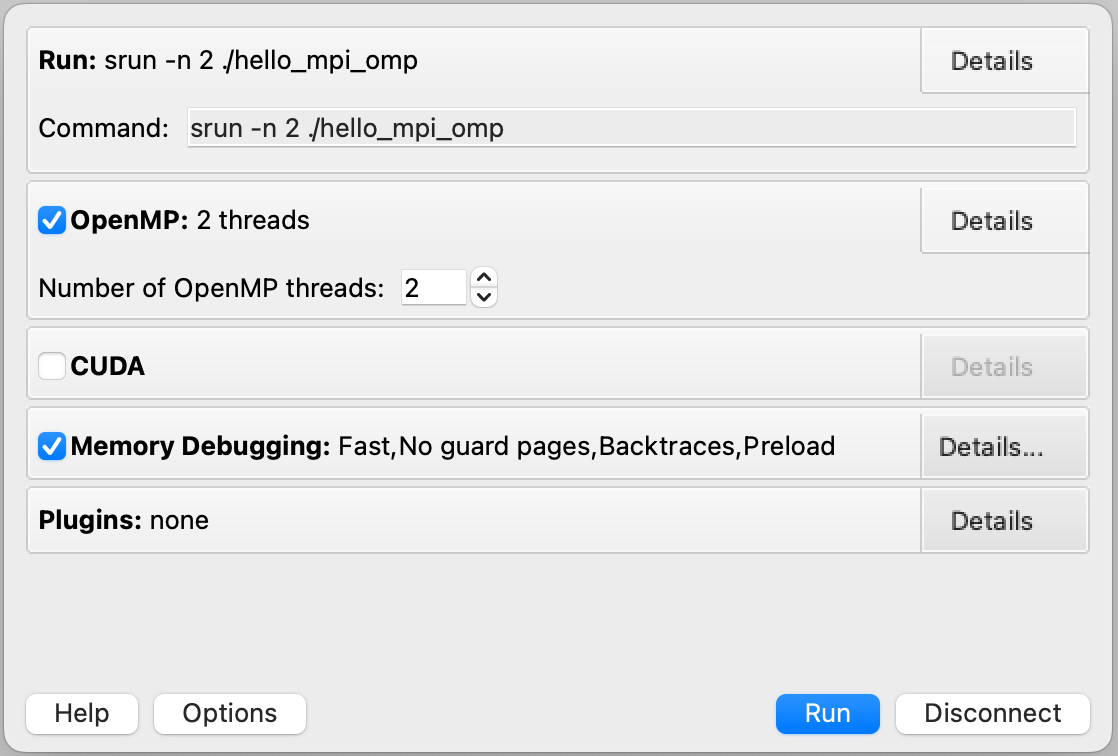
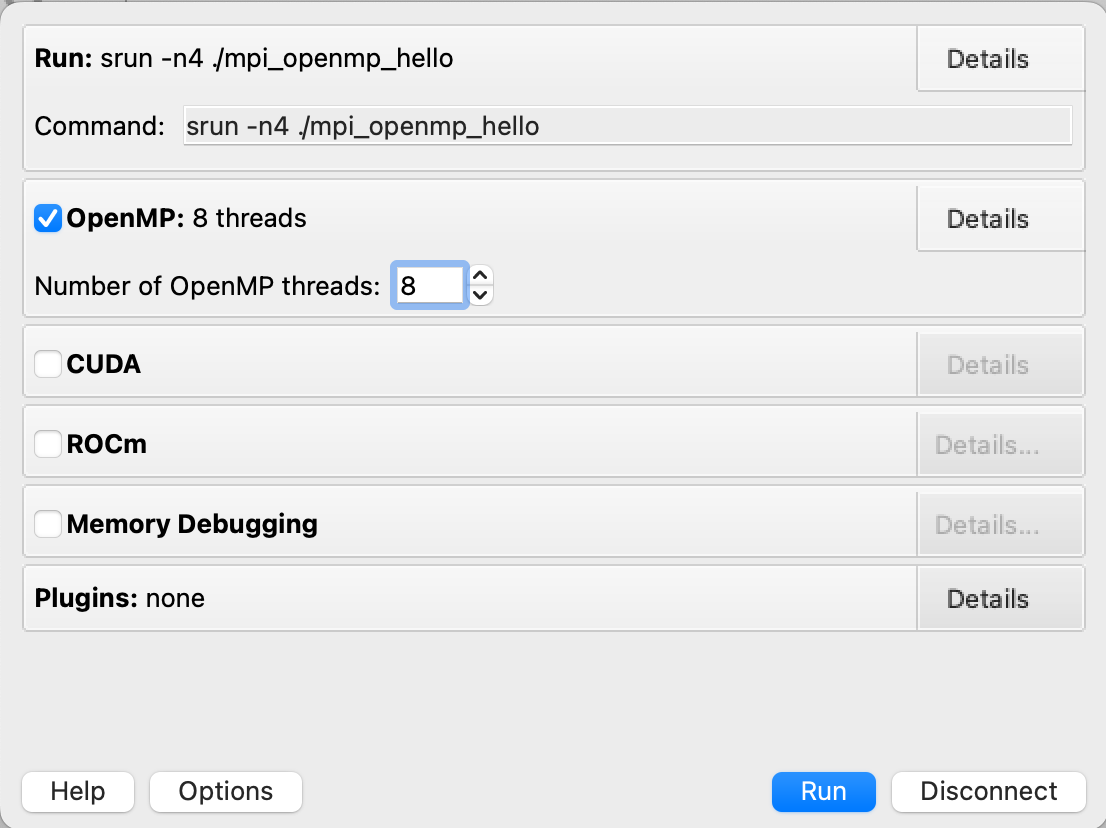
updating instructions for Andes to Forge 23.1

Changed region(s): [[0.0, 0.0, 1.0, 1.0], [0.7993, 0.3955, 0.83, 0.4868], [0.7993, 0.7302, 0.83, 0.7606]]

diff --git a/software/debugging/index.rst b/software/debugging/index.rst
@@ -28,7 +28,7 @@ Download
 
 **Andes**
 
-    You can download the remote client (version 22.0.x) from the `Linaro Forge Older Versions <https://www.linaroforge.com/downloadForge_OldVersion/>`_ page.
+    You can download the remote client (version 23.1) from the `Linaro Forge <https://www.linaroforge.com/downloadForge/>`_ page.
 
 **Frontier**
 
@@ -131,31 +131,51 @@ Configuration
     .. tab-item:: Andes
         
         .. note::
-            Andes currently runs an older version of Forge (22.0.2) which is not compatible with the latest versions of the remote client (22.1.x). If you are using Andes, you will need to download the older version (version 22.0.x) of the remote client from the `Linaro Forge Older Versions <https://www.linaroforge.com/downloadForge_OldVersion/>`_ page as seen in the Download instructions above.
+           Andes has Forge/23.1 installed. So make sure to download the corresponding remote client version from  `Linaro Forge <https://www.linaroforge.com/downloadForge/>`_ page.
 
+
+        **Reverse Connect Setup Instructions**
+        
+        Prior to launching the reverse connect you will need to set a couple of environment variables so the connection request gets routed correctly. The following export vars will need to be sourced in your batch script prior to srun or you can just source them prior to obtaining your node allocation.
+        
+
+        .. code-block:: bash
+
+            export ALLINEA_CONFIG_DIR=<Somewhere on the Filesystem that can be accessed by the compute nodes i.e. /lustre/orion/<project>>
+            export ALLINEA_REVERSE_CONNECT_DIR=<Somewhere on the Filesystem that can be accessed by the compute nodes i.e. /lustre/orion/<project>>
+    
+        Also, if you plan on running the Forge client from your local machine (i.e. laptop), you will need to create a bash file containing the above environment vars. The file can be saved in /ccs/home/<user>. Once created and saved, you will enter the path to the file in the Forge Remote Launch setup window next to Remote Script as shown below.
+
+        **Make sure you set actual paths for the above environment variables.**
+
+        **Local client setup**
+        
         #. Once installed, launch the Forge DDT client on your local machine.
 
         #. You can ignore any information about the lack of license, as the license on the remote machine will be used.
 
-        #. When you reach the welcome screen, you should see a “Remote Launch” combo box (with “Off” selected). Select the “Configure” option.
+        #. When you reach the welcome screen, you should see a “Remote Launch” combo box (with “Off” selected). Click on it and select the “Configure” option.
 
         #. Click the "Add" button.
+        
+        #. In the Forge Remote Launch setup window:
 
-        #. Enter the details of your remote hosts:
+            * In the ``Remote Script`` box, Enter the path to the file you created earlier ``/ccs/home/<user>/forge_connect_vars.sh``. 
 
-            .. figure:: /images/ddt_config_andes.png
-                :align: center
-                :width: 800
+            * (Optionally) In the ``Connection Name`` box, enter a name for your remote connection (otherwise the host name will be used)
 
-            * (Optionally) enter a name for your remote connection (otherwise the host name will be used)
-
-            * Enter your username and hostname (e.g. ``username@andes.olcf.ornl.gov``)
+            * In the ``Host Name`` box, enter your username and hostname (e.g. ``username@andes.olcf.ornl.gov``)
 
                 * If the host you wish to connect to requires connecting through a gateway machine, you can enter ``user@hostname1`` ``user@hostname2`` (where ``hostname1`` is the gateway and ``hostname2`` is the final destination).
 
-            * Enter the remote path to the Linaro Forge installation (To find the path for a version of Forge, load the forge/22.0.2 module file in a terminal and run ``echo $DDT_HOME``)
+            * In the ``Remote Installation Directory`` box, enter the remote path to the Linaro Forge installation (To find the path for a version of Forge, load the forge/23.1 module file in a terminal and run ``echo $DDT_HOME``)
+
 
             * For the remaining fields, the default values will work for the vast majority of setups. See the `Linaro Forge documentation <https://www.linaroforge.com/documentation/>`_ for more information on these fields.
+
+        .. figure:: /images/ddt_config_andes.png
+            :align: center
+            :width: 800
 
         #. You may click the "Test Remote Launch" button to test your configuration, or click "OK" to save your configuration.
 
@@ -165,40 +185,16 @@ Configuration
             :align: center
             :width: 400
 
-        Once connected, Forge will look and behave as usual, but will launch jobs, browse for files, and use/set the configuration on the remote system. The “Reverse Connect” feature, described below, is also available.
+        Once connected to a remote host, “Reverse Connect” allows launching of jobs to be launched with DDT and MAP from your usual launch environment, with a minor modification to your existing launch command.
 
         **Reverse Connect**
-
-        For example, if you have a batch script containing:
-
-        .. code-block:: bash
-
-            srun -n 2 ./hello_mpi_omp
-
-        You could edit this to:
-
-        .. code-block:: bash
-
-            module load forge/22.0.2
-            ddt --connect srun -n 2 ./hello_mpi_omp
-
-        When your job is executed, the ``ddt --connect`` command will establish a connection with your already-running remote client (must be running before launching the job). This provides a convenient way for the remote client to access a job within the batch system, and more importantly, avoids the need to explicitly tell DDT or MAP about any program parameters, environment variables, or module files required.
-
-        **Reverse Connect Setup Instructions**
-        
-
-        #. Launch the Forge remote client and connect to a remote host using the steps above. Once connected, this client will monitor for new connections.
-
-        .. figure:: /images/ddt_launch_andes.png
-            :align: center
-            :width: 400
-
-        #. In a separate terminal, load the ``forge/22.0.2`` module, and run a ``ddt --connect`` command via the batch system (e.g. by editing and running a job script, or running with an interactive shell).
+    
+        #. In a separate terminal where you are logged into Andes, load the ``forge/23.1`` module, and run a ``ddt --connect`` command via the batch system (e.g. by editing and running a job script, or running with an interactive shell).
 
             .. code-block:: bash
 
-                module load forge/22.0.2
-                ddt --connect srun -n 2 ./hello_mpi_omp
+                module load forge/23.1
+                ddt --connect srun -n 8 ./mpi_openmp_hello
 
         #. The remote client will notify you of a new connection.
 
@@ -213,6 +209,9 @@ Configuration
             :width: 600
 
         #. Click “Run”, and DDT will start your session.
+
+        When your job is executed, the ``ddt --connect`` command will establish a connection with your already-running remote client (must be running before launching the job). This provides a convenient way for the remote client to access a job within the batch system, and more importantly, avoids the need to explicitly tell DDT or MAP about any program parameters, environment variables, or module files required.
+
 
     .. tab-item:: Frontier
 
